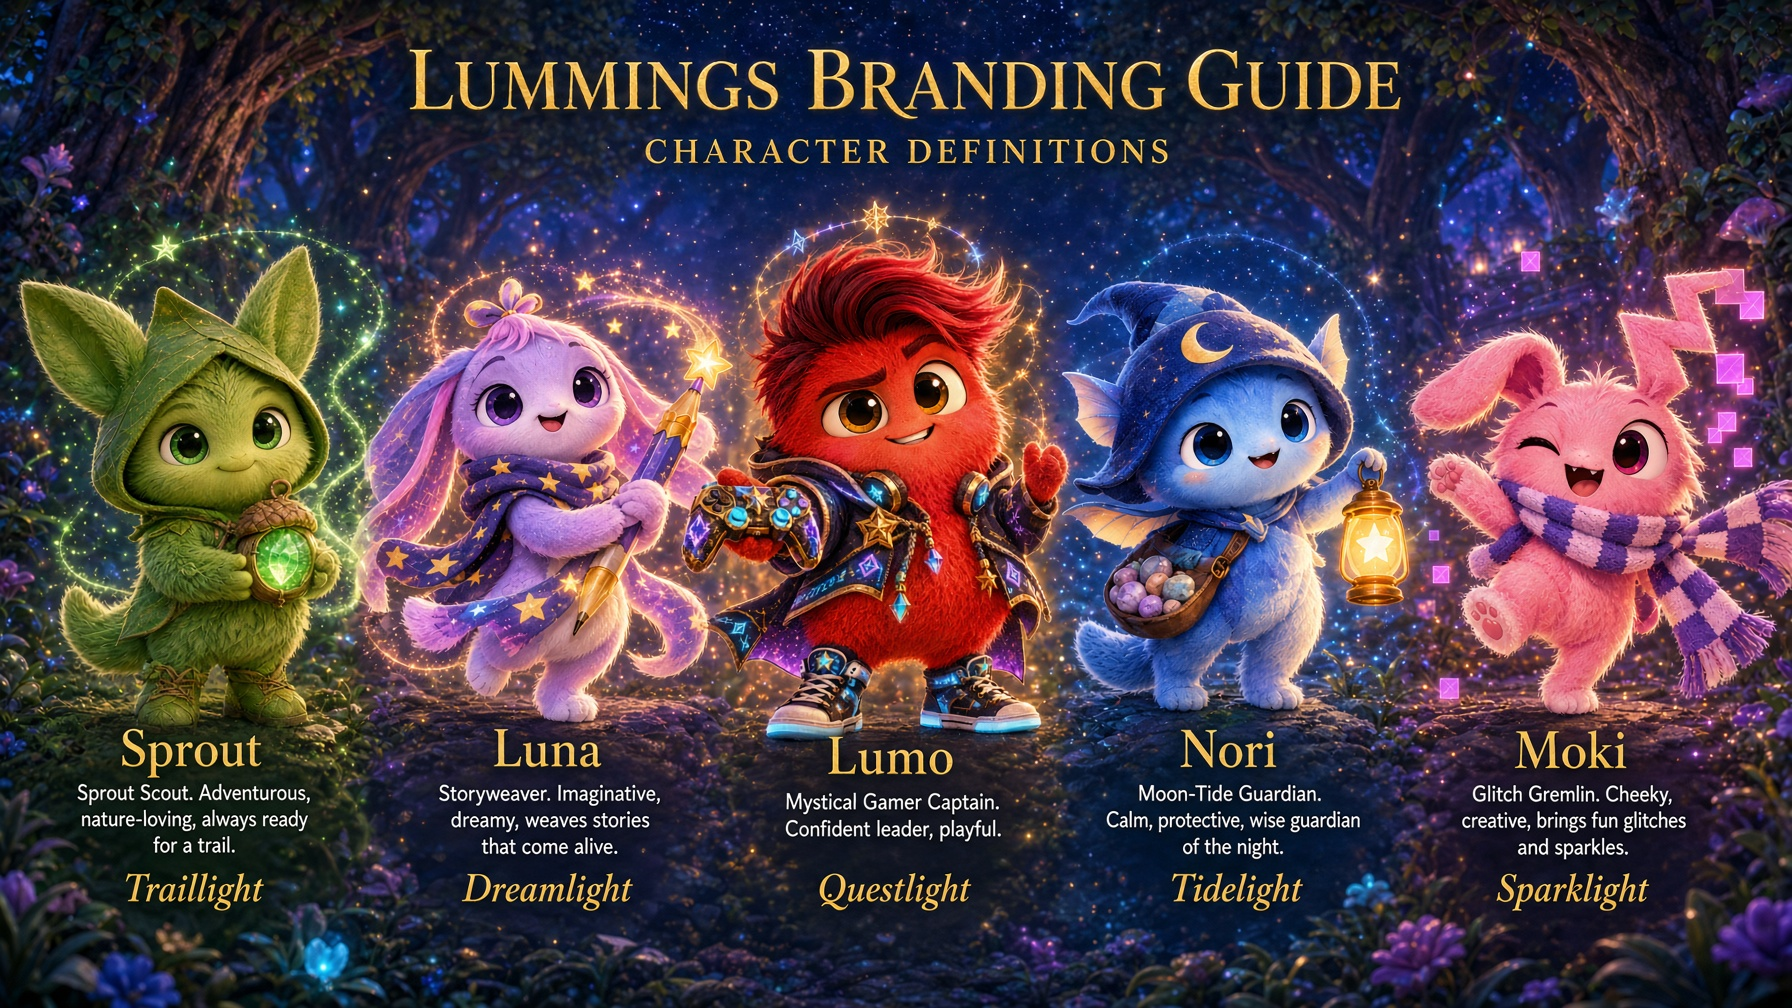
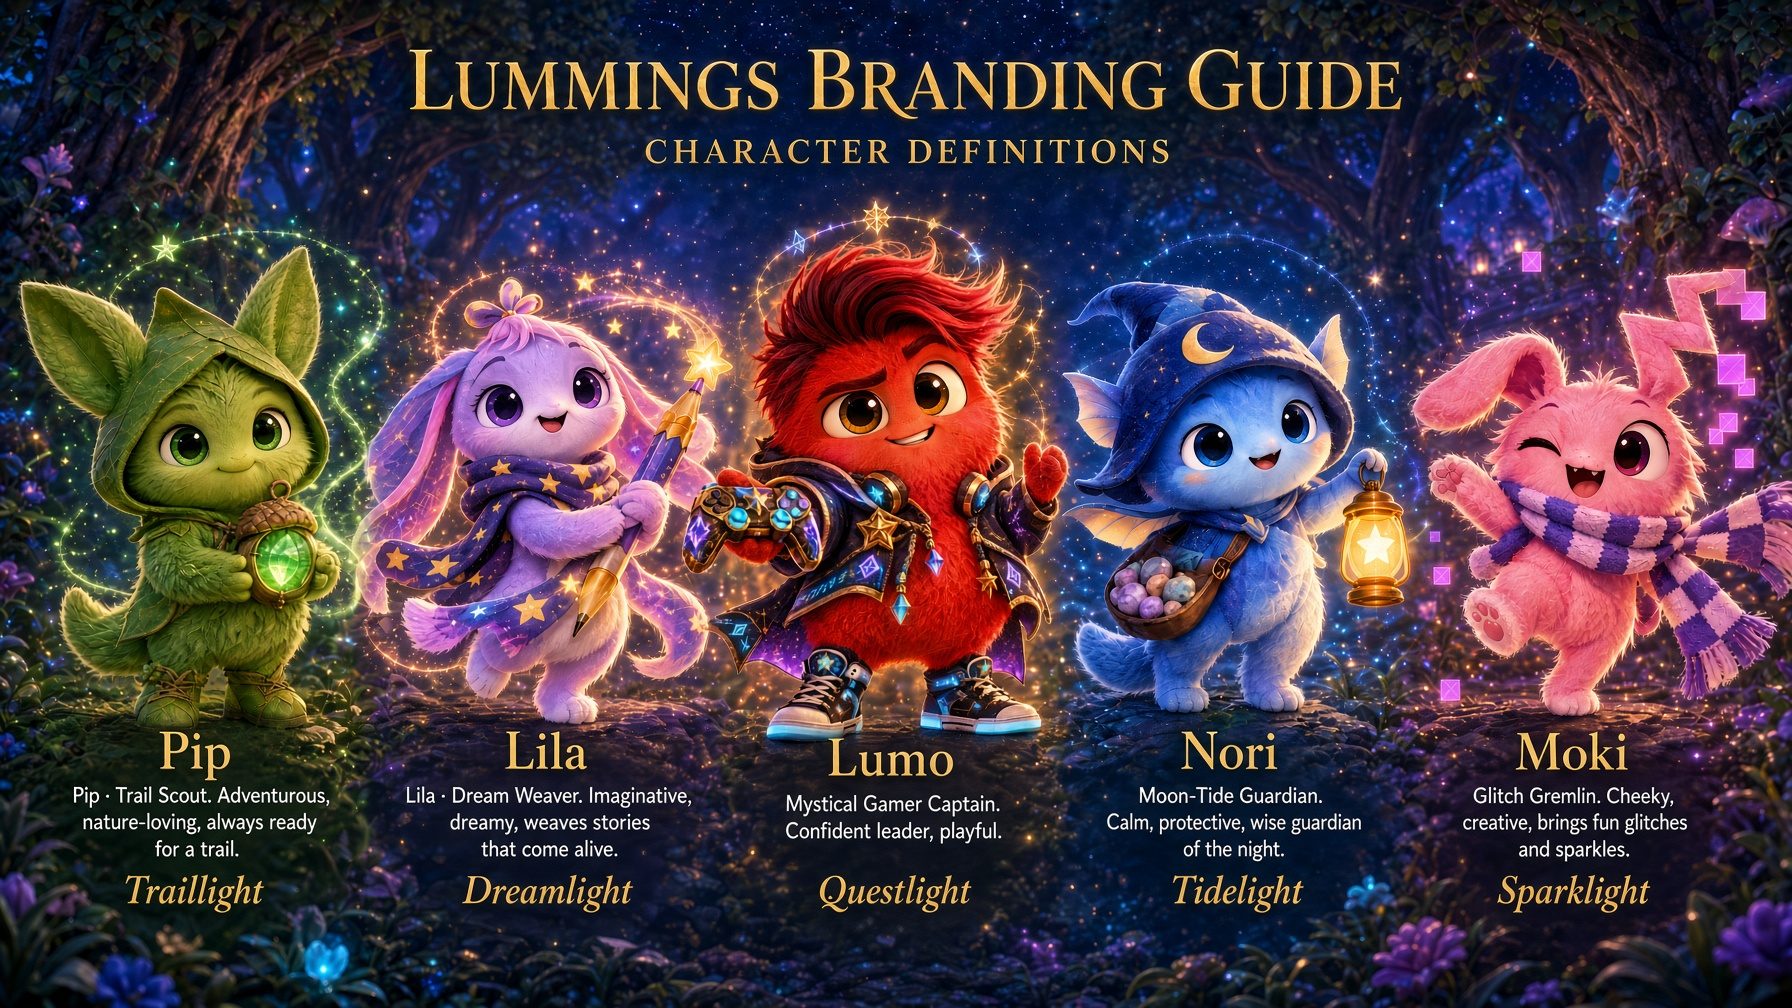
Brand: official names on character sheet (Pip/Lila) — looks unchanged
Correct branding-guide page 03 labels Sprout→Pip, Luna→Lila.
Archive legacy labels. Update stories, assets index, name canon.

diff --git a/brand/INTERACTIVE_STORIES.md b/brand/INTERACTIVE_STORIES.md
@@ -1,5 +1,7 @@
 # Heartlight Adventures
 
+> **Official names (2026-10-18):** Pip (not Sprout) · Lila (not Luna). Looks and stories unchanged except names.
+
 Fifteen interactive stories. Three for each Lumming. Editable source for the storybook.
 
 Writing a child types into the page is not stored and is not sent. These are fictional demonstrations of supportive behaviour, not evidence of improved grades, less anxiety, or guaranteed safety.
@@ -9,12 +11,12 @@ Writing a child types into the page is not stored and is not sent. These are fic
 | Lumo | Questlight | The Gate of Sixes | Different strategies can reach the same answer. |
 | Lumo | Questlight | The Save-Point Bridge | Stopping can be part of the plan. |
 | Lumo | Questlight | The Rumour Rune | Check the words before you believe a big claim. |
-| Sprout | Traillight | The Upside-Down Map | A thoughtful second look can be the brave part. |
-| Sprout | Traillight | Two Paths, One Puddle | You can choose a route, then switch. |
-| Sprout | Traillight | The Medal for Slow | Looking can matter more than being first. |
-| Luna | Dreamlight | Weather Inside | A feeling does not have to be explained. |
-| Luna | Dreamlight | The Library of Almosts | An unfinished idea can be enough. |
-| Luna | Dreamlight | The Scarf Offer | Sharing a feeling is a choice. |
+| Pip | Traillight | The Upside-Down Map | A thoughtful second look can be the brave part. |
+| Pip | Traillight | Two Paths, One Puddle | You can choose a route, then switch. |
+| Pip | Traillight | The Medal for Slow | Looking can matter more than being first. |
+| Lila | Dreamlight | Weather Inside | A feeling does not have to be explained. |
+| Lila | Dreamlight | The Library of Almosts | An unfinished idea can be enough. |
+| Lila | Dreamlight | The Scarf Offer | Sharing a feeling is a choice. |
 | Nori | Tidelight | Lowbeam’s Offer | A calming idea can be declined. |
 | Nori | Tidelight | Three Small Things | One careful question is enough. |
 | Nori | Tidelight | The Trusted Door | Some questions belong with a person you trust. |
@@ -121,24 +123,24 @@ What would you want to check before you believed a big rumour?
 
 The writing field is optional. Leave it blank. Do not put secrets in it. The page does not save it.
 
-## Sprout — The Upside-Down Map
+## Pip — The Upside-Down Map
 
 **Heartlight:** Traillight  
 **Id:** `upside-down-map`
 
 > I announced the plan. Then I noticed the map was upside down. Second try?
 
-Sprout’s leaf-map was the wrong way up. Which move now?
+Pip’s leaf-map was the wrong way up. Which move now?
 
 ### Choose a strategy
 
 - **Turn it and look again.** The leaf arrows point the other way once the map is the right way up.
 - **Test the first path slowly.** One careful step. If the moss thins out, come back. That is still a plan.
-- **Ask what Nori notices.** A second pair of eyes. Sprout does not have to spot everything alone.
+- **Ask what Nori notices.** A second pair of eyes. Pip does not have to spot everything alone.
 
 ### Reveal the explanation
 
-The trail marks were leaves pointing toward the moss gate, not away from it. Sprout’s medal is for the second look. Traillight brightens when a plan gets repaired, not when it was perfect the first time.
+The trail marks were leaves pointing toward the moss gate, not away from it. Pip’s medal is for the second look. Traillight brightens when a plan gets repaired, not when it was perfect the first time.
 
 ### Try this next
 
@@ -146,7 +148,7 @@ Turn a drawing upside down and find one thing you missed. Then turn it back and 
 
 ### Grown-up note
 
-Sprout celebrates a thoughtful retry instead of hiding the mix-up. Skip “you should have looked first.” The repair is the point. This does not promise fewer mistakes at school.
+Pip celebrates a thoughtful retry instead of hiding the mix-up. Skip “you should have looked first.” The repair is the point. This does not promise fewer mistakes at school.
 
 ### Writing prompt
 
@@ -154,7 +156,7 @@ Tell about a second try that helped — or invent one.
 
 The writing field is optional. Leave it blank. Do not put secrets in it. The page does not save it.
 
-## Sprout — Two Paths, One Puddle
+## Pip — Two Paths, One Puddle
 
 **Heartlight:** Traillight  
 **Id:** `two-paths`
@@ -187,7 +189,7 @@ Which path would you pick, and what would you watch for?
 
 The writing field is optional. Leave it blank. Do not put secrets in it. The page does not save it.
 
-## Sprout — The Medal for Slow
+## Pip — The Medal for Slow
 
 **Heartlight:** Traillight  
 **Id:** `medal-for-slow`
@@ -204,7 +206,7 @@ The moss gate asks which footprint is the thoughtful one. What do you think?
 
 ### Reveal the explanation
 
-The gate opens for the print that turned around. Sprout pins the medal on that second attempt. Fast was not wrong for every day. Today the riddle was about noticing. Traillight makes the medal glow emerald, then fades so nobody has to wear it.
+The gate opens for the print that turned around. Pip pins the medal on that second attempt. Fast was not wrong for every day. Today the riddle was about noticing. Traillight makes the medal glow emerald, then fades so nobody has to wear it.
 
 ### Try this next
 
@@ -220,14 +222,14 @@ What did a slower try notice?
 
 The writing field is optional. Leave it blank. Do not put secrets in it. The page does not save it.
 
-## Luna — Weather Inside
+## Lila — Weather Inside
 
 **Heartlight:** Dreamlight  
 **Id:** `weather-inside`
 
 > You don’t have to explain the sky. I can sit in it with you.
 
-A friend’s feeling is stormy, and they do not want to say why. What can Luna offer?
+A friend’s feeling is stormy, and they do not want to say why. What can Lila offer?
 
 ### Choose a strategy
 
@@ -237,7 +239,7 @@ A friend’s feeling is stormy, and they do not want to say why. What can Luna o
 
 ### Reveal the explanation
 
-None of these asks “why”. Luna does not demand an explanation for a feeling. If words come later, there is room. If they don’t, company was the whole help. Dreamlight does not dim when a feeling stays unnamed.
+None of these asks “why”. Lila does not demand an explanation for a feeling. If words come later, there is room. If they don’t, company was the whole help. Dreamlight does not dim when a feeling stays unnamed.
 
 ### Try this next
 
@@ -253,7 +255,7 @@ A weather word for right now, if you want one. Blank is welcome.
 
 The writing field is optional. Leave it blank. Do not put secrets in it. The page does not save it.
 
-## Luna — The Library of Almosts
+## Lila — The Library of Almosts
 
 **Heartlight:** Dreamlight  
 **Id:** `library-of-almosts`
@@ -270,7 +272,7 @@ The sentence waiting on the shelf is “And then the moon…” How might it go?
 
 ### Reveal the explanation
 
-All three endings are kind. Luna used to hide unfinished stories because they felt not-wonderful-enough. Dreamlight shows that a beginning can be the gift. Stopping is part of writing, not a hole in it.
+All three endings are kind. Lila used to hide unfinished stories because they felt not-wonderful-enough. Dreamlight shows that a beginning can be the gift. Stopping is part of writing, not a hole in it.
 
 ### Try this next
 
@@ -286,24 +288,24 @@ Finish “And then the moon…” in your own way, or leave it almost.
 
 The writing field is optional. Leave it blank. Do not put secrets in it. The page does not save it.
 
-## Luna — The Scarf Offer
+## Lila — The Scarf Offer
 
 **Heartlight:** Dreamlight  
 **Id:** `scarf-offer`
 
 > Words are an invitation, not a test.
 
-Luna’s comet scarf can hold a feeling-word. Do you want to offer one?
+Lila’s comet scarf can hold a feeling-word. Do you want to offer one?
 
 ### Choose a strategy
 
-- **I’ll pick a word.** Any word. Luna does not grade it or ask you to explain it.
-- **Not today.** A complete answer. Luna nods and lets the scarf rest.
+- **I’ll pick a word.** Any word. Lila does not grade it or ask you to explain it.
+- **Not today.** A complete answer. Lila nods and lets the scarf rest.
 - **A colour instead.** Violet, moss, gold, moon-blue, rose. A colour can be the whole reply.
 
 ### Reveal the explanation
 
-“Not today” does not need a follow-up question. Luna does not chase a feeling to make the story neat. Dreamlight stays soft either way. An invitation can be declined and still have been kind.
+“Not today” does not need a follow-up question. Lila does not chase a feeling to make the story neat. Dreamlight stays soft either way. An invitation can be declined and still have been kind.
 
 ### Try this next
 

diff --git a/brand/ASSETS_INDEX.md b/brand/ASSETS_INDEX.md
@@ -10,7 +10,7 @@
 |------|-------------|
 | 01-cover.jpg | Branding guide cover (locked style) |
 | 02-brand-essence-heartlight.jpg | Heartlight = essence/soul (not separate creature) |
-| 03-character-definitions.jpg | Lumo / Luna / Sprout / Nori / Moki |
+| 03-character-definitions.jpg | Lumo / Lila / Pip / Nori / Moki (official) |
 | 04-product-ecosystem-accessories.jpg | App, plush, charms, hook system |
 | 05-pricing-architecture.jpg | App / Physical / Accessories pricing |
 | 06-engagement-gentle-hook.jpg | Daily care, collection, bond levels |
@@ -38,7 +38,7 @@
 | File | Description |
 |------|-------------|
 | locked-style-crew-lineup.jpg | Official 5-crew lineup locked style |
-| sprout-portrait-locked.jpg | Sprout full portrait |
+| sprout-portrait-locked.jpg | Pip (legacy filename sprout) full portrait |
 | early-summary-page.jpg | Early summary composition |
 
 ### brand/character-masters/

diff --git a/brand/BRAND_GUIDELINES.md b/brand/BRAND_GUIDELINES.md
@@ -293,3 +293,22 @@ marketing/tiktok/from-intros/  ← post-ready social
 
 **End of master guidelines.**  
 When in doubt: *soft, safe, consistent, essence — not separate creatures.*
+
+---
+
+## 12. Branding guide deck (visual)
+
+Pages live in `brand/branding-guide/`:
+
+| # | File | Content |
+|---|---|---|
+| 01 | cover | Brand cover |
+| 02 | brand-essence-heartlight | Essence + Heartlight |
+| 03 | character-definitions | **Official names:** Pip · Lila · Lumo · Nori · Moki (updated 18 Oct 2026; art unchanged) |
+| 04 | product-ecosystem-accessories | App / plush / charms |
+| 05 | pricing-architecture | Free bond + Plus |
+| 06 | engagement-gentle-hook | Soft hooks |
+| 07 | visual-identity-voice | Voice + visual |
+| 08 | summary-back-cover | Summary |
+
+Legacy Sprout/Luna label version of page 03 archived under `brand/branding-guide/archive/`.

diff --git a/brand/README.md b/brand/README.md
@@ -6,7 +6,8 @@
 3. [CHARACTER_BIBLE.md](CHARACTER_BIBLE.md) — five characters
 4. [HEARTLIGHTS.md](HEARTLIGHTS.md) — essence canon
 5. [../docs/brand-use-guidelines.md](../docs/brand-use-guidelines.md) — community / legal use
-6. [../BRAND.md](../BRAND.md) — long-form brand narrative
+6. [NAME_CANON.md](NAME_CANON.md)
+7. [../BRAND.md](../BRAND.md) — long-form brand narrative
 
 ## Visual lock (do not restyle)
 - `character-masters/` · `character-lineup/` · `locked-style-references/`

diff --git a/brand/NAME_CANON.md b/brand/NAME_CANON.md
@@ -1,0 +1,12 @@
+# Name Canon (public)
+
+| Official | Heartlight | Legacy file prefixes (internal only) |
+|---|---|---|
+| **Lumo** | Questlight | lumo |
+| **Lila** | Dreamlight | luna, lila |
+| **Pip** | Traillight | sprout, pip |
+| **Nori** | Tidelight | nori |
+| **Moki** | Sparklight | moki |
+
+Public marketing, packaging, app UI, branding-guide text, captions: **official names only**.
+Looks never change when renaming labels.
